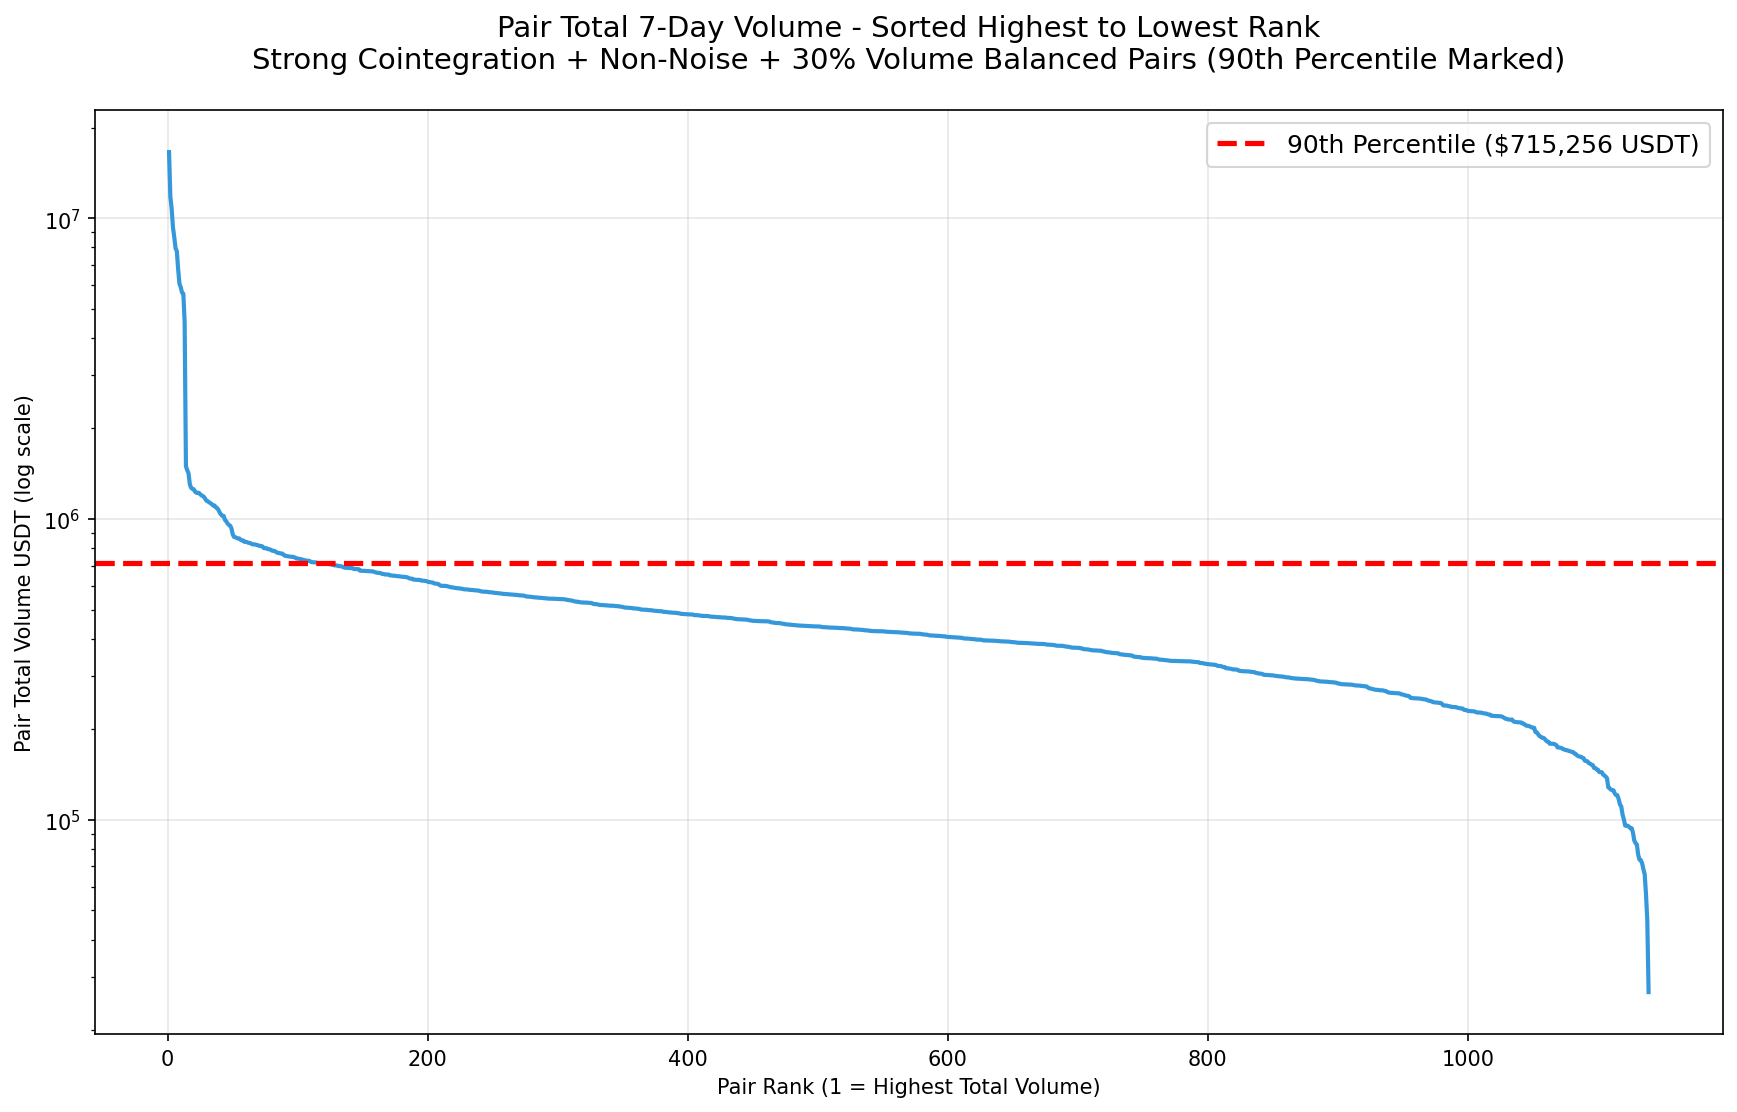
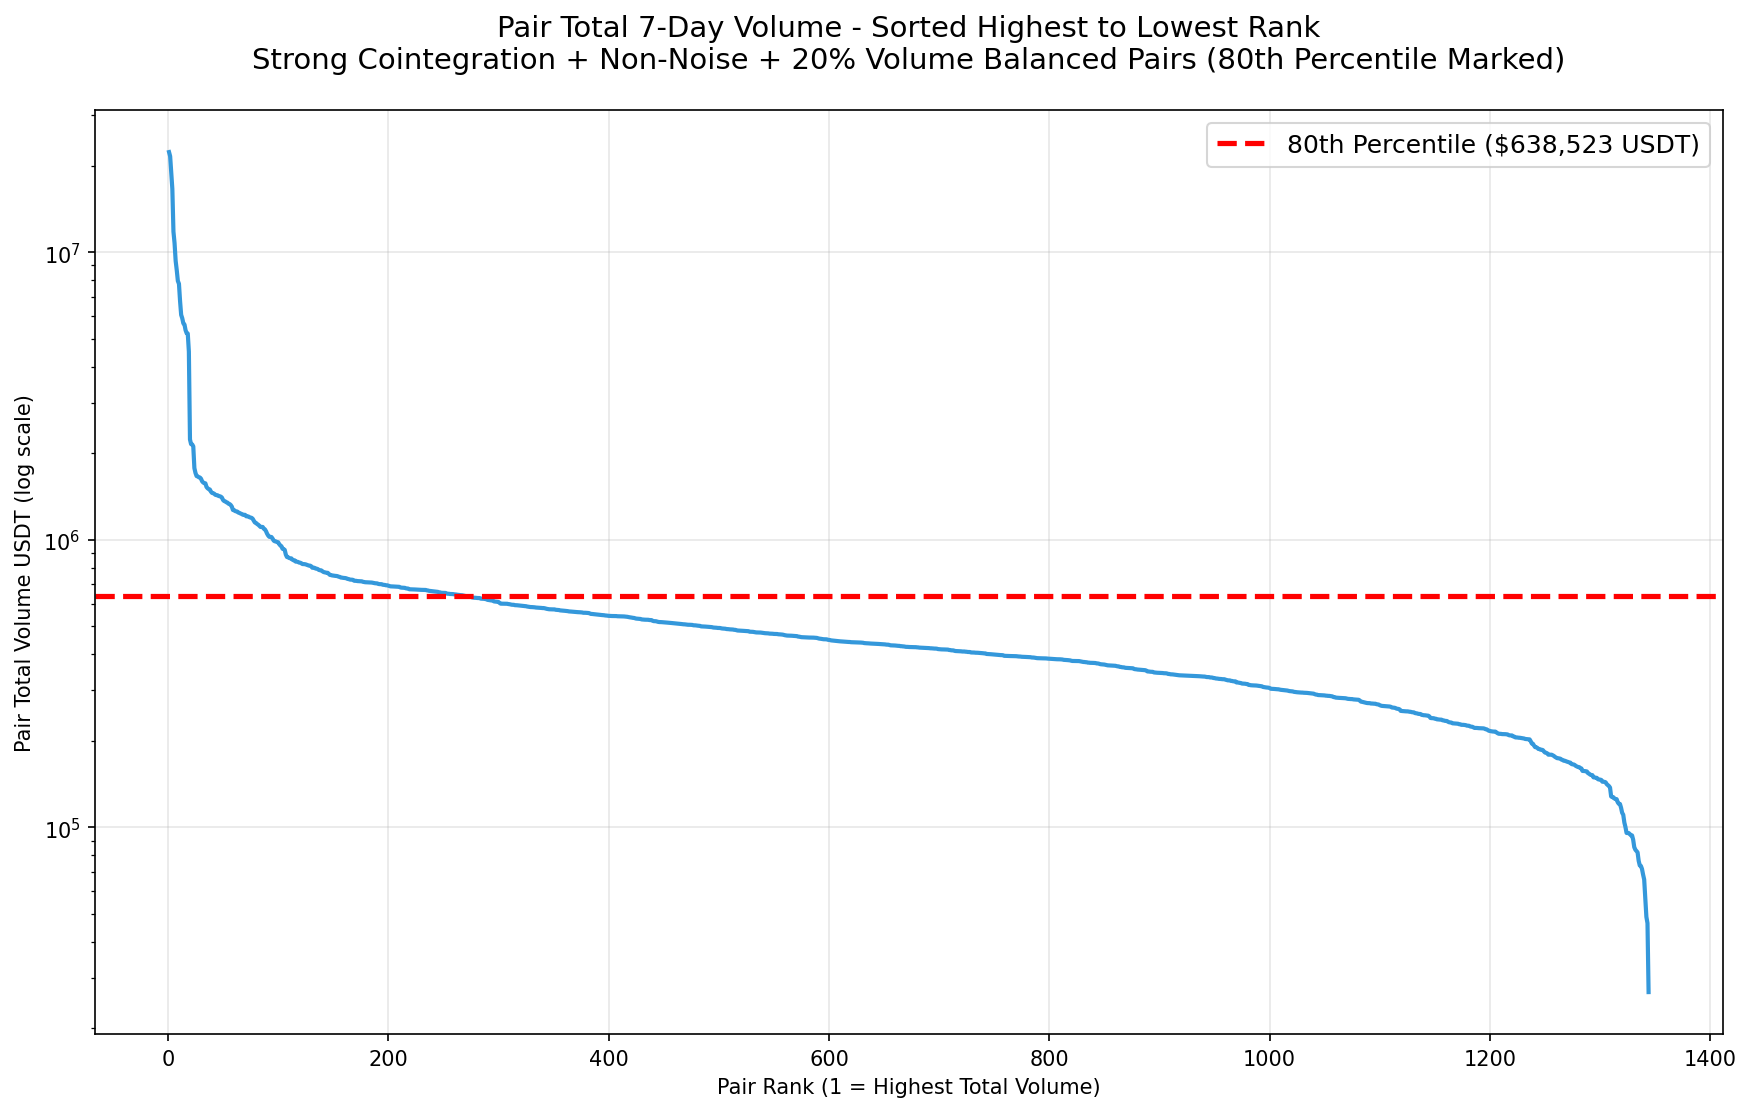
save

diff --git a/src/pcv2/filter_by_volume.py b/src/pcv2/filter_by_volume.py
@@ -7,9 +7,9 @@ import numpy as np
 from datetime import datetime
 
 # ====================== CONFIG (change these!) ======================
-PERCENTILE = 90
-MIN_VOLUME_RATIO = 0.30
-VOLUME_CACHE_FILE = "mexc_kucoin_volume.csv"
+PERCENTILE = 80
+MIN_VOLUME_RATIO = 0.20
+VOLUME_CACHE_FILE = "mexc_kucoin_volume.csv" 
 # ===========================================================================
 
 def ordinal(n: int) -> str:
@@ -112,8 +112,23 @@ if __name__ == "__main__":
     missing_symbols = [str(s).strip().upper() for s in symbols 
                        if str(s).strip().upper() not in cached_symbols]
     
+    # ====================== PROMPT LOGIC (exactly as you asked) ======================
+    force_refresh = False
     if missing_symbols:
         print(f"🔄 Fetching volume data for {len(missing_symbols):,} NEW symbols...")
+    else:
+        print("✅ All symbols already present in volume cache")
+        response = input("Do you want to skip fetching fresh volume data from MEXC and KuCoin "
+                         "and only use the cached data? (y/n): ").strip().lower()
+        if response in ['n', 'no']:
+            print("🔄 Forcing full volume refresh for all symbols...")
+            force_refresh = True
+            missing_symbols = [str(s).strip().upper() for s in symbols]
+        else:
+            print("📊 Using existing volume cache (no API calls)...")
+    
+    # Fetch (either new symbols or full refresh if user chose n)
+    if missing_symbols:
         new_rows = []
         for i, sym in enumerate(missing_symbols, 1):
             if i % 20 == 0 or i == len(missing_symbols):
@@ -131,11 +146,9 @@ if __name__ == "__main__":
         if new_rows:
             new_df = pd.DataFrame(new_rows)
             volume_cache_df = pd.concat([volume_cache_df, new_df], ignore_index=True)
-            # Deduplicate just in case
             volume_cache_df = volume_cache_df.drop_duplicates(subset=['symbol']).reset_index(drop=True)
             save_volume_cache(volume_cache_df)
-    else:
-        print("✅ All symbols already present in volume cache — no API calls needed!")
+    # ================================================================================
     
     # Build fast lookup dictionary
     volume_dict = {}
